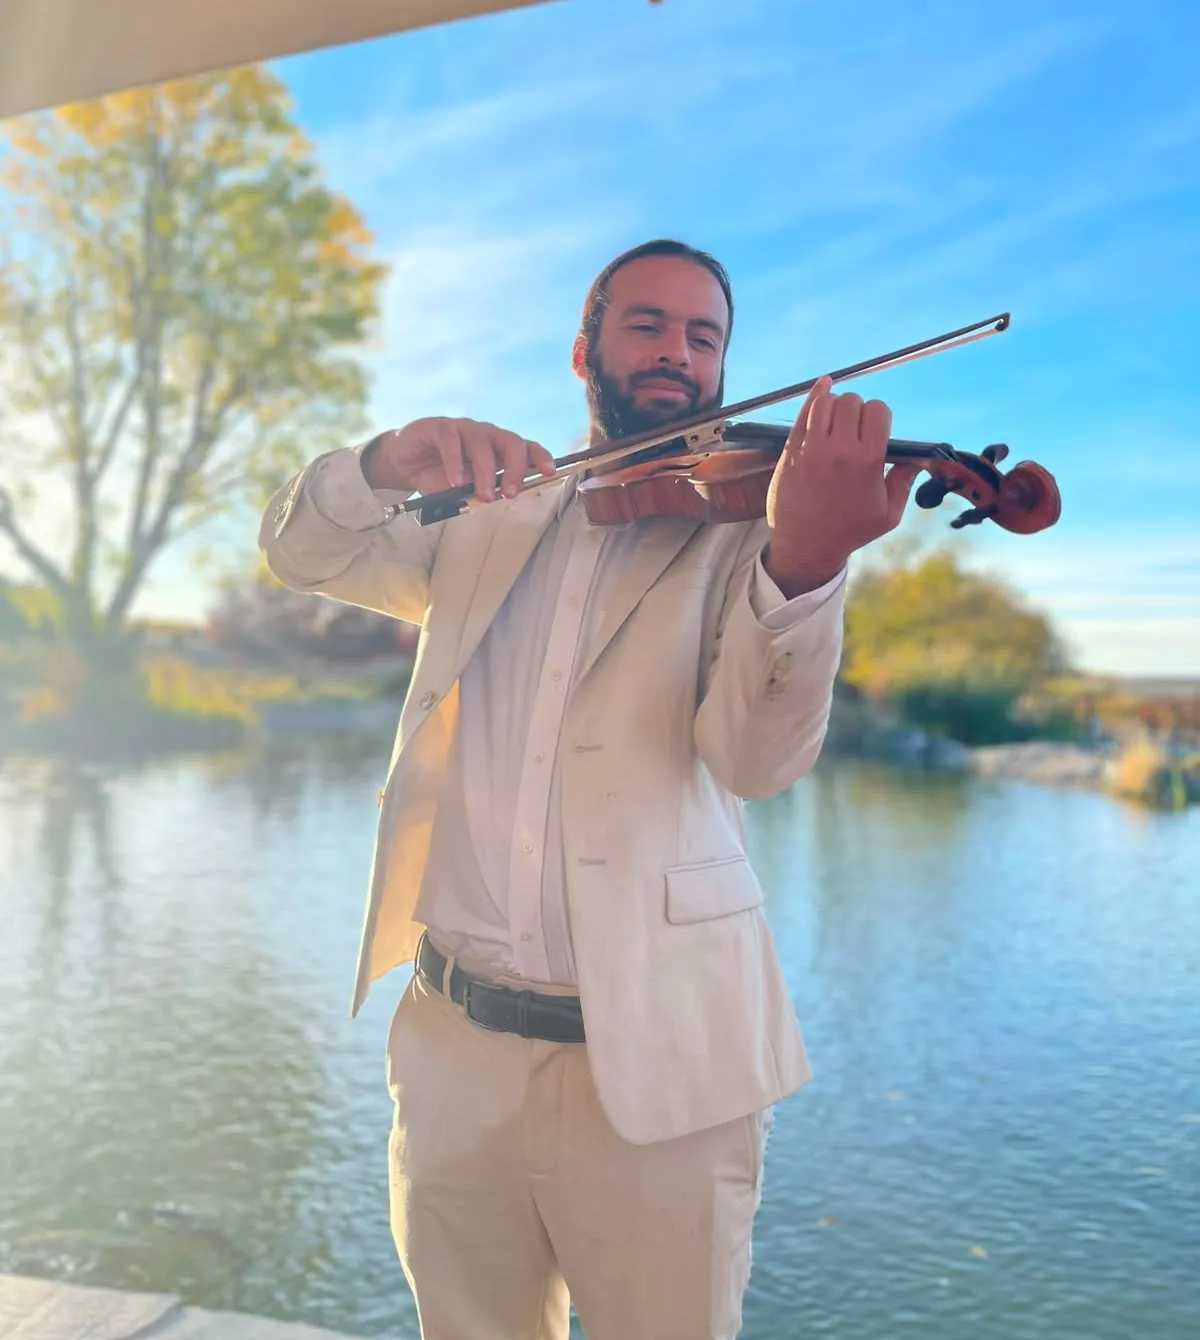
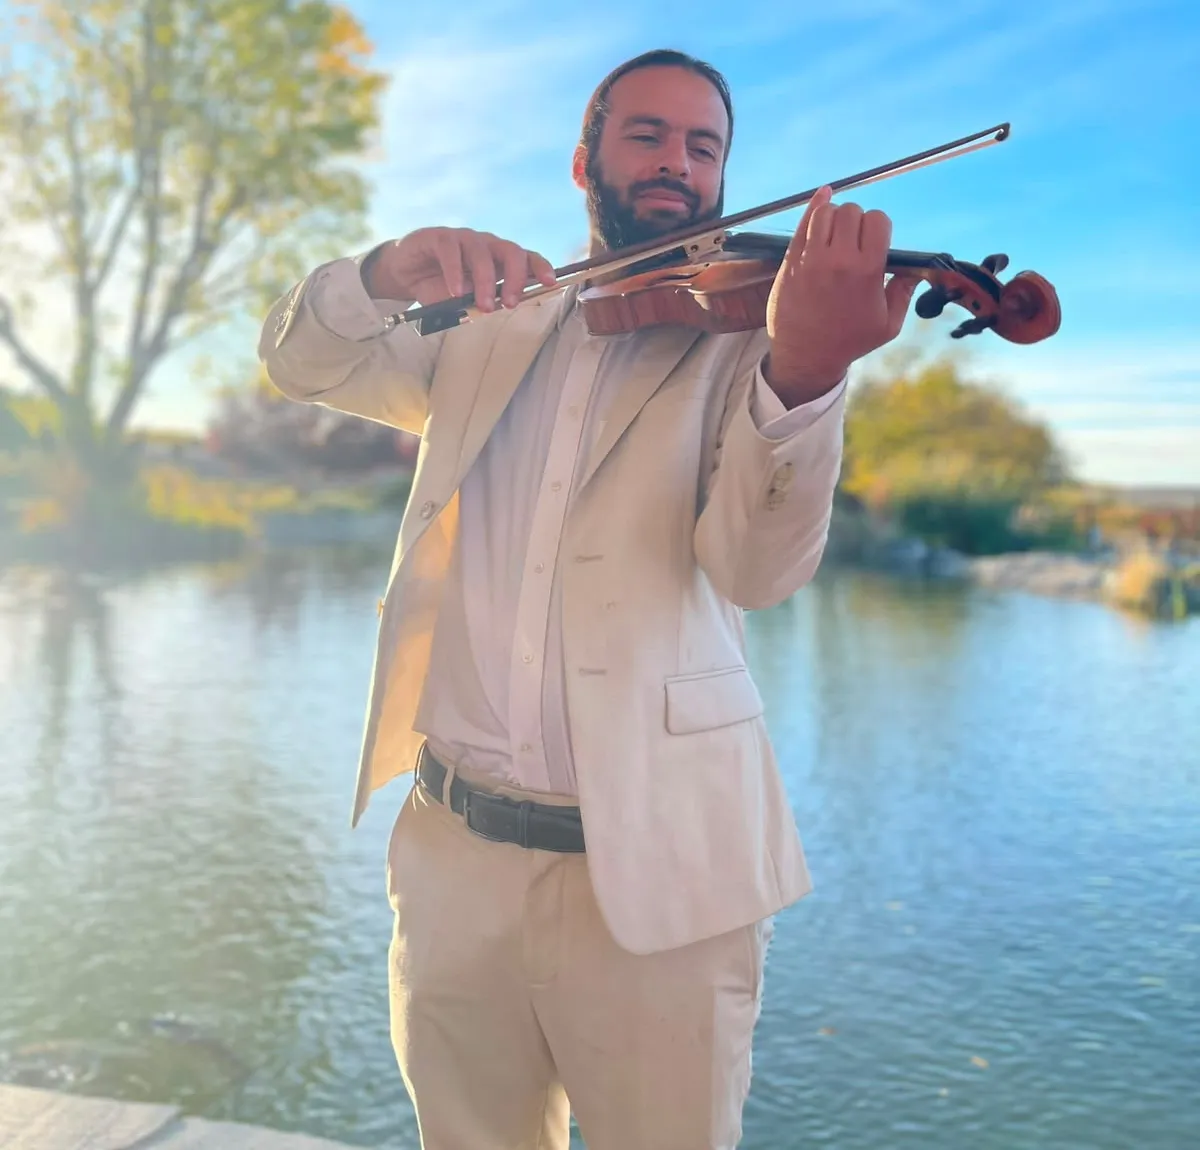
Crop umbrella fully out of About pond photo

diff --git a/src/app/about/page.tsx b/src/app/about/page.tsx
@@ -88,7 +88,7 @@ export default function AboutPage() {
               src="/images/daniel-violin-pond.webp"
               alt="Daniel in a cream suit playing violin beside a pond under a blue sky"
               width={1200}
-              height={1340}
+              height={1150}
               sizes="(min-width: 640px) 36rem, 100vw"
               className="w-full h-auto"
             />
